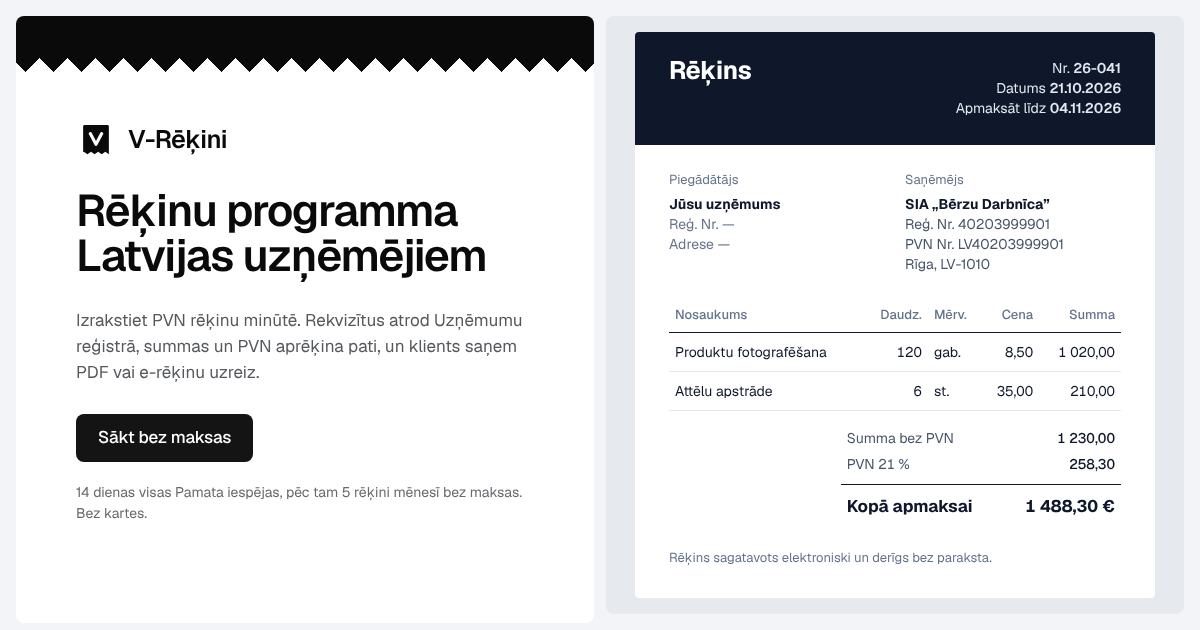
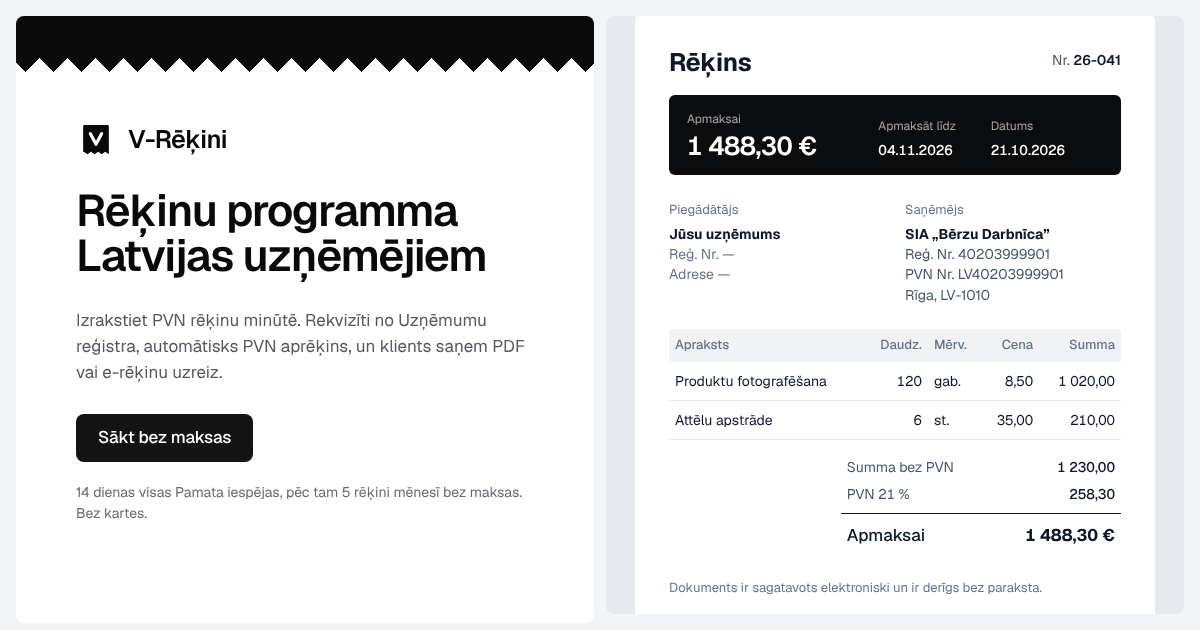
Public site in light mode only; landing copy and its invoice follow the new PDFs
The landing, pricing, sign-in, guides and legal pages no longer follow the OS
or in-app dark theme. Hero copy says "automātisks PVN aprēķins"; the editor
line reads "Spiežot Enter, pāriet uz nākamo lauku, un jauna rinda pievienojas
pati." The pinned invoice's template switch shows the new classic, modern
(amount panel) and minimal designs. Share image re-rendered.

Claude-Session: https://claude.ai/code/session_017gfxyN4qm6vDPE19T8Q2Fz

diff --git a/app/templates/landing.html b/app/templates/landing.html
@@ -48,20 +48,18 @@
     <meta name="twitter:description" content="PVN rēķins minūtē, rekvizīti no Uzņēmumu reģistra, PDF un PEPPOL e-rēķini.">
     <meta name="twitter:image" content="{{ site_url }}/static/og-image.png">
     <link rel="manifest" href="/static/manifest.json">
-    <meta name="theme-color" content="#f2f4f7" media="(prefers-color-scheme: light)">
-    <meta name="theme-color" content="#0c0d0f" media="(prefers-color-scheme: dark)">
+    <meta name="theme-color" content="#f2f4f7">
     <link rel="apple-touch-icon" href="/static/icons/apple-touch-icon.png">
     <link rel="icon" type="image/png" sizes="32x32" href="/static/icons/favicon-32.png">
     <link rel="icon" type="image/png" sizes="16x16" href="/static/icons/favicon-16.png">
     <link rel="preconnect" href="https://fonts.googleapis.com">
     <link rel="preconnect" href="https://fonts.gstatic.com" crossorigin>
-    <link href="https://fonts.googleapis.com/css2?family=Geist:wght@400;500;600;700&display=swap" rel="stylesheet">
+    <link href="https://fonts.googleapis.com/css2?family=Geist:wght@400;500;600;700&family=Source+Serif+4:wght@400;600&display=swap" rel="stylesheet">
     <link rel="stylesheet" href="/static/css/site.css?v={{ css_version }}">
     <script>
     (function () {
         var d = document.documentElement;
         d.classList.add('js');
-        try { var t = localStorage.getItem('vrekini-theme'); if (t === 'light' || t === 'dark') d.setAttribute('data-theme', t); } catch (e) {}
     })();
     </script>
     <script type="application/ld+json">
@@ -128,7 +126,7 @@
             <div class="card-body">
                 <a href="/" class="wordmark" data-rise style="--i:0">{{ mark }}<span>V-Rēķini</span></a>
                 <h1 id="h-hero" class="hero-h1" data-rise style="--i:1">Rēķinu programma Latvijas uzņēmējiem</h1>
-                <p class="lede" data-rise style="--i:2">Izrakstiet PVN rēķinu minūtē. Rekvizītus atrod Uzņēmumu reģistrā, summas un PVN aprēķina pati, un klients saņem PDF vai e-rēķinu uzreiz.</p>
+                <p class="lede" data-rise style="--i:2">Izrakstiet PVN rēķinu minūtē. Rekvizīti no Uzņēmumu reģistra, automātisks PVN aprēķins, un klients saņem PDF vai e-rēķinu uzreiz.</p>
                 <div class="hero-actions" data-rise style="--i:3">
                     <a href="/register" class="btn">Sākt bez maksas</a>
                     <span class="hero-note">14 dienas visas Pamata iespējas, pēc tam {{ t_free.max_documents }} rēķini mēnesī bez maksas. Bez kartes.</span>
@@ -159,7 +157,7 @@
 
             <div class="block" data-focus="lines">
                 <h3 data-rise>Rindas kā tabulā</h3>
-                <p data-rise style="--i:1">Enter pārvieto uz nākamo lauku, un jauna rinda rodas pati. Produkta mērvienība un pēdējā cena ienāk no iepriekšējā rēķina. Skaitļus raksta kā ierasts: <strong>8,50</strong>, nevis 8.50.</p>
+                <p data-rise style="--i:1">Spiežot Enter, pāriet uz nākamo lauku, un jauna rinda pievienojas pati. Produkta mērvienība un pēdējā cena ienāk no iepriekšējā rēķina. Skaitļus raksta kā ierasts: <strong>8,50</strong>, nevis 8.50.</p>
                 <div class="pair" data-rise style="--i:2">
                     <div><label for="qtyIn">Daudzums, gab.</label><input id="qtyIn" class="input num" type="text" inputmode="decimal" value="120"></div>
                     <div><label for="priceIn">Cena, €</label><input id="priceIn" class="input num" type="text" inputmode="decimal" value="8,50"></div>
@@ -167,7 +165,7 @@
             </div>
 
             <div class="block" data-focus="totals">
-                <h3 data-rise>PVN aprēķina pati</h3>
+                <h3 data-rise>Automātisks PVN aprēķins</h3>
                 <p data-rise style="--i:1">Pamata likme 21 %, samazinātā 12 % vai nodokļa apgrieztā maksāšana ar pareizo norādi rēķinā. Ja neesat PVN maksātājs, PVN rindu nav vispār.</p>
                 <div class="seg" role="group" aria-label="PVN likme" data-rise style="--i:2" id="vatSeg">
                     <button type="button" data-vat="21" aria-pressed="true">21 %</button>
@@ -181,7 +179,7 @@
                 <h3 data-rise>Izskatās pēc Jūsu uzņēmuma</h3>
                 <p data-rise style="--i:1">Trīs veidnes, Jūsu logotips un krāsa. Numerācija turpinās no iepriekšējās sistēmas ar Jūsu priedēkli, bez pārrāvuma.</p>
                 <div class="seg" role="group" aria-label="Rēķina veidne" data-rise style="--i:2" id="tplSeg">
-                    <button type="button" data-tpl="modern" aria-pressed="true">Moderna</button>
+                    <button type="button" data-tpl="modern" aria-pressed="true">Modernā</button>
                     <button type="button" data-tpl="classic" aria-pressed="false">Klasiskā</button>
                     <button type="button" data-tpl="minimal" aria-pressed="false">Minimālā</button>
                 </div>
@@ -209,6 +207,11 @@
                         <div>Apmaksāt līdz <b>{{ due.strftime('%d.%m.%Y') }}</b></div>
                     </div>
                 </div>
+                <div class="p-panel" aria-hidden="true">
+                    <div class="big"><span>Apmaksai</span><b id="pAmount">1&nbsp;488,30&nbsp;€</b></div>
+                    <div><span>Apmaksāt līdz</span><b>{{ due.strftime('%d.%m.%Y') }}</b></div>
+                    <div><span>Datums</span><b>{{ today.strftime('%d.%m.%Y') }}</b></div>
+                </div>
                 <div class="p-parties" data-region="parties">
                     <div>
                         <div class="p-label">Piegādātājs</div>
@@ -225,7 +228,7 @@
                     </div>
                 </div>
                 <table data-region="lines">
-                    <thead><tr><th>Nosaukums</th><th class="r">Daudz.</th><th>Mērv.</th><th class="r">Cena</th><th class="r">Summa</th></tr></thead>
+                    <thead><tr><th>Apraksts</th><th class="r">Daudz.</th><th>Mērv.</th><th class="r">Cena</th><th class="r">Summa</th></tr></thead>
                     <tbody>
                         <tr><td>Produktu fotografēšana</td><td class="r" id="l1q">120</td><td>gab.</td><td class="r" id="l1p">8,50</td><td class="r" id="l1s">1&nbsp;020,00</td></tr>
                         <tr><td>Attēlu apstrāde</td><td class="r">6</td><td>st.</td><td class="r">35,00</td><td class="r">210,00</td></tr>
@@ -234,9 +237,9 @@
                 <div class="p-totals" data-region="totals">
                     <div id="rowNet"><span>Summa bez PVN</span><b id="tNet">1&nbsp;230,00</b></div>
                     <div id="rowVat"><span id="tVatLabel">PVN 21 %</span><b id="tVat">258,30</b></div>
-                    <div class="grand"><span>Kopā apmaksai</span><b id="tTotal">1&nbsp;488,30&nbsp;€</b></div>
+                    <div class="grand"><span>Apmaksai</span><b id="tTotal">1&nbsp;488,30&nbsp;€</b></div>
                 </div>
-                <div class="p-foot"><span>Rēķins sagatavots elektroniski un derīgs bez paraksta.</span></div>
+                <div class="p-foot"><span>Dokuments ir sagatavots elektroniski un ir derīgs bez paraksta.</span></div>
                 <div class="xml" aria-hidden="true" id="xmlView"><code id="xmlCode"></code></div>
             </div>
         </div>
@@ -466,6 +469,7 @@
         setText($('tVatLabel'), state.vat === '0' ? 'Nodokļa apgrieztā maksāšana' : 'PVN ' + state.vat + ' %', flash);
         setText($('tVat'), state.vat === '0' ? '—' : fmt(t.vat), flash);
         setText($('tTotal'), fmt(t.total) + NBSP + '€', flash);
+        setText($('pAmount'), fmt(t.total) + NBSP + '€', flash);
 
         paper.className = 'paper t-' + state.tpl + (state.view === 'xml' ? ' as-xml' : '');
         $('xmlCode').innerHTML = xml(t, name);

diff --git a/app/static/css/site.css b/app/static/css/site.css
@@ -41,29 +41,7 @@
     --r: 8px;                 /* the one radius */
     --gap: clamp(120px, 14vw, 200px);
     --ease: cubic-bezier(.32, .72, 0, 1);
-}
-
-@media (prefers-color-scheme: dark) {
-    :root:not([data-theme="light"]) {
-        --ground: #0c0d0f; --ground-2: #16181b; --surface: #141518;
-        --text: #f1f2f4; --muted: #a3a7ad; --faint: #9a9ea4;
-        --primary: #f1f2f4; --on-primary: #0c0d0f;
-        --data: #6aa1ec; --data-tint: rgba(106, 161, 236, .16);
-        --pill-bg: #23262a; --pill-ink: #c9ccd1;
-        --pill-neg-bg: #3a1618; --pill-neg-ink: #f2a3a6;
-        --pill-pos-bg: #15301a; --pill-pos-ink: #9fd7a5;
-        --ink-field: #e9ebee; --rule: #26292d; --on-ink: #0a0a0a; --on-ink-muted: #45484d; --on-ink-faint: #6a6e74; --ink-btn: #0a0a0a; --ink-btn-ink: #f4f5f7;
-    }
-}
-:root[data-theme="dark"] {
-    --ground: #0c0d0f; --ground-2: #16181b; --surface: #141518;
-    --text: #f1f2f4; --muted: #a3a7ad; --faint: #9a9ea4;
-    --primary: #f1f2f4; --on-primary: #0c0d0f;
-    --data: #6aa1ec; --data-tint: rgba(106, 161, 236, .16);
-    --pill-bg: #23262a; --pill-ink: #c9ccd1;
-    --pill-neg-bg: #3a1618; --pill-neg-ink: #f2a3a6;
-    --pill-pos-bg: #15301a; --pill-pos-ink: #9fd7a5;
-    --ink-field: #e9ebee; --rule: #26292d; --on-ink: #0a0a0a; --on-ink-muted: #45484d; --on-ink-faint: #6a6e74; --ink-btn: #0a0a0a; --ink-btn-ink: #f4f5f7;
+    color-scheme: light;
 }
 
 *, *::before, *::after { box-sizing: border-box; }
@@ -250,14 +228,29 @@ img { display: block; max-width: 100%; }
 [data-ui].paper .hl { background: rgba(29, 95, 191, .10); box-shadow: 0 0 0 4px rgba(29, 95, 191, .10); border-radius: 3px; transition: background .5s var(--ease), box-shadow .5s var(--ease); }
 
 /* the three real templates */
-[data-ui].paper.t-modern .p-head { margin: -34px -34px 26px; padding: 26px 34px; background: #0f172a; color: #fff; border-radius: 4px 4px 0 0; }
-[data-ui].paper.t-modern .p-meta, [data-ui].paper.t-modern .p-meta b { color: #e2e8f0; }
-[data-ui].paper.t-classic .p-head { padding-bottom: 18px; border-bottom: 2px solid #0f172a; }
-[data-ui].paper.t-classic .p-title { font-weight: 500; letter-spacing: 0; }
-[data-ui].paper.t-classic th { border-bottom-width: 2px; }
-[data-ui].paper.t-minimal .p-title { font-weight: 500; }
-[data-ui].paper.t-minimal th { border-bottom-color: #e5e7eb; color: #94a3b8; }
-[data-ui].paper.t-minimal .p-totals .grand { border-top-color: #e5e7eb; }
+/* The three templates, as the PDFs draw them (app/pdf_generator.py), at reading size */
+[data-ui].paper .p-panel { display: none; }
+[data-ui].paper.t-modern .p-panel { display: grid; grid-template-columns: 46% 1fr 1fr; align-items: end; margin: -6px 0 26px; padding: 16px 18px 15px; border-radius: 6px; background: #0b0c0e; color: #fff; }
+[data-ui].paper .p-panel span { display: block; font-size: 12px; color: rgba(255, 255, 255, .62); margin-bottom: 4px; }
+[data-ui].paper .p-panel b { font-weight: 500; font-variant-numeric: tabular-nums; white-space: nowrap; }
+[data-ui].paper .p-panel .big b { font-size: 26px; font-weight: 600; letter-spacing: -0.02em; line-height: 1; }
+[data-ui].paper.t-modern .p-meta div:not(:first-child) { display: none; }
+[data-ui].paper.t-modern thead tr { background: #f1f2f4; }
+[data-ui].paper.t-modern th { border-bottom: 0; }
+[data-ui].paper.t-modern th:first-child { border-radius: 4px 0 0 0; }
+[data-ui].paper.t-modern th:last-child { border-radius: 0 4px 0 0; }
+[data-ui].paper.t-classic .p-title { font-family: "Source Serif 4", Georgia, serif; font-weight: 400; font-size: 34px; letter-spacing: 0; }
+[data-ui].paper.t-classic .p-head { position: relative; padding-bottom: 18px; border-bottom: 2px solid #0f172a; }
+[data-ui].paper.t-classic .p-head::after { content: ""; position: absolute; left: 0; right: 0; bottom: -6px; border-top: 1px solid #0f172a; }
+[data-ui].paper.t-classic .p-name, [data-ui].paper.t-classic .p-totals .grand b { font-family: "Source Serif 4", Georgia, serif; font-weight: 600; }
+[data-ui].paper.t-classic .p-label, [data-ui].paper.t-minimal .p-label { font-size: 10.5px; font-weight: 600; letter-spacing: .08em; text-transform: uppercase; }
+[data-ui].paper.t-classic th, [data-ui].paper.t-minimal th { border-top: 1px solid #0f172a; }
+[data-ui].paper.t-minimal .p-title { font-weight: 400; }
+[data-ui].paper.t-minimal .p-head { position: relative; padding-top: 16px; }
+[data-ui].paper.t-minimal .p-head::before { content: ""; position: absolute; left: 0; top: 0; width: 24px; height: 2px; background: #0f172a; }
+[data-ui].paper.t-minimal .p-name { font-weight: 500; }
+[data-ui].paper.t-minimal .p-totals .grand { font-weight: 400; }
+[data-ui].paper.t-minimal .p-totals .grand b { font-weight: 400; font-size: 1.15em; }
 
 /* e-invoice view: the same invoice as PEPPOL XML */
 [data-ui] .xml {
@@ -407,8 +400,6 @@ img { display: block; max-width: 100%; }
 .pay .pay-mono { filter: grayscale(1); opacity: .75; }
 .pay .footer-logo-text { font-size: 13px; color: var(--faint); }
 .pay .footer-sep { width: 1px; height: 18px; background: var(--rule); }
-:root[data-theme="dark"] .pay .pay-mono { filter: grayscale(1) invert(1); }
-@media (prefers-color-scheme: dark) { :root:not([data-theme="light"]) .pay .pay-mono { filter: grayscale(1) invert(1); } }
 
 /* ------------------------------------------------------------ motion */
 .js [data-rise] { opacity: 0; transform: translateY(24px); transition: opacity .8s var(--ease), transform .8s var(--ease); transition-delay: calc(var(--i, 0) * 80ms); }
@@ -453,7 +444,7 @@ img { display: block; max-width: 100%; }
     .block h3 { font-size: var(--s3); }
     .paper-wrap { width: calc(100% - 24px); }
     [data-ui].paper { padding: 22px 20px; font-size: 12.5px; }
-    [data-ui].paper.t-modern .p-head { margin: -22px -20px 20px; padding: 18px 20px; }
+    [data-ui].paper .p-panel .big b { font-size: 21px; }
     [data-ui].paper .p-title { font-size: 22px; }
 
     .film { padding: var(--gap) 20px 0; }
@@ -647,3 +638,6 @@ details.more[open] > summary { margin-bottom: 14px; }
 .guide-list li a span { color: var(--muted); }
 .guide-list li a:hover b { text-decoration: underline; text-underline-offset: 3px; }
 @media (max-width: 640px) { .article-body { font-size: 17px; } .article-body table { font-size: 14px; } .article-body th, .article-body td { padding: 8px; } }
+[data-ui].paper .p-totals .grand span { font-weight: 500; }
+[data-ui].paper.t-classic .p-totals .grand b { font-size: 1.2em; }
+[data-ui].paper.t-minimal .p-totals .grand span { font-weight: 400; }

diff --git a/app/templates/pricing.html b/app/templates/pricing.html
@@ -19,8 +19,7 @@
     <meta name="twitter:description" content="Rēķinu programma no 0 € līdz {{ plans.business.price_monthly | price }} € mēnesī, cenas ar PVN.">
     <link rel="icon" type="image/png" sizes="32x32" href="/static/icons/favicon-32.png">
     <link rel="apple-touch-icon" href="/static/icons/apple-touch-icon.png">
-    <meta name="theme-color" content="#f2f4f7" media="(prefers-color-scheme: light)">
-    <meta name="theme-color" content="#0c0d0f" media="(prefers-color-scheme: dark)">
+    <meta name="theme-color" content="#f2f4f7">
     <link rel="preconnect" href="https://fonts.googleapis.com">
     <link rel="preconnect" href="https://fonts.gstatic.com" crossorigin>
     <link href="https://fonts.googleapis.com/css2?family=Geist:wght@400;500;600;700&display=swap" rel="stylesheet">
@@ -28,7 +27,6 @@
     <script>
     (function () {
         var d = document.documentElement; d.classList.add('js');
-        try { var t = localStorage.getItem('vrekini-theme'); if (t === 'light' || t === 'dark') d.setAttribute('data-theme', t); } catch (e) {}
     })();
     </script>
 </head>

diff --git a/app/templates/auth_base.html b/app/templates/auth_base.html
@@ -7,8 +7,7 @@
     {% block meta %}<meta name="robots" content="noindex,follow">{% endblock %}
     <link rel="icon" type="image/png" sizes="32x32" href="/static/icons/favicon-32.png">
     <link rel="apple-touch-icon" href="/static/icons/apple-touch-icon.png">
-    <meta name="theme-color" content="#f2f4f7" media="(prefers-color-scheme: light)">
-    <meta name="theme-color" content="#0c0d0f" media="(prefers-color-scheme: dark)">
+    <meta name="theme-color" content="#f2f4f7">
     <link rel="preconnect" href="https://fonts.googleapis.com">
     <link rel="preconnect" href="https://fonts.gstatic.com" crossorigin>
     <link href="https://fonts.googleapis.com/css2?family=Geist:wght@400;500;600;700&display=swap" rel="stylesheet">
@@ -16,7 +15,6 @@
     <script>
     (function () {
         var d = document.documentElement; d.classList.add('js');
-        try { var t = localStorage.getItem('vrekini-theme'); if (t === 'light' || t === 'dark') d.setAttribute('data-theme', t); } catch (e) {}
     })();
     </script>
 </head>

diff --git a/app/templates/_site_head.html b/app/templates/_site_head.html
@@ -1,8 +1,7 @@
 {# Shared <head> tail for public pages on site.css #}
     <link rel="icon" type="image/png" sizes="32x32" href="/static/icons/favicon-32.png">
     <link rel="apple-touch-icon" href="/static/icons/apple-touch-icon.png">
-    <meta name="theme-color" content="#f2f4f7" media="(prefers-color-scheme: light)">
-    <meta name="theme-color" content="#0c0d0f" media="(prefers-color-scheme: dark)">
+    <meta name="theme-color" content="#f2f4f7">
     <link rel="preconnect" href="https://fonts.googleapis.com">
     <link rel="preconnect" href="https://fonts.gstatic.com" crossorigin>
     <link href="https://fonts.googleapis.com/css2?family=Geist:wght@400;500;600;700&display=swap" rel="stylesheet">
@@ -10,6 +9,5 @@
     <script>
     (function () {
         var d = document.documentElement; d.classList.add('js');
-        try { var t = localStorage.getItem('vrekini-theme'); if (t === 'light' || t === 'dark') d.setAttribute('data-theme', t); } catch (e) {}
     })();
     </script>

diff --git a/app/templates/404.html b/app/templates/404.html
@@ -10,7 +10,6 @@
     <link rel="preconnect" href="https://fonts.gstatic.com" crossorigin>
     <link href="https://fonts.googleapis.com/css2?family=Geist:wght@400;500;600;700&display=swap" rel="stylesheet">
     <link rel="stylesheet" href="/static/css/site.css?v={{ css_version }}">
-    <script>try { var t = localStorage.getItem('vrekini-theme'); if (t === 'light' || t === 'dark') document.documentElement.setAttribute('data-theme', t); } catch (e) {}</script>
     <style>
         .lost { min-height: 100svh; display: flex; flex-direction: column; justify-content: center; gap: 24px; padding: 48px clamp(20px, 8vw, 120px); }
         .lost h1 { font-size: var(--s4); max-width: 16ch; }
